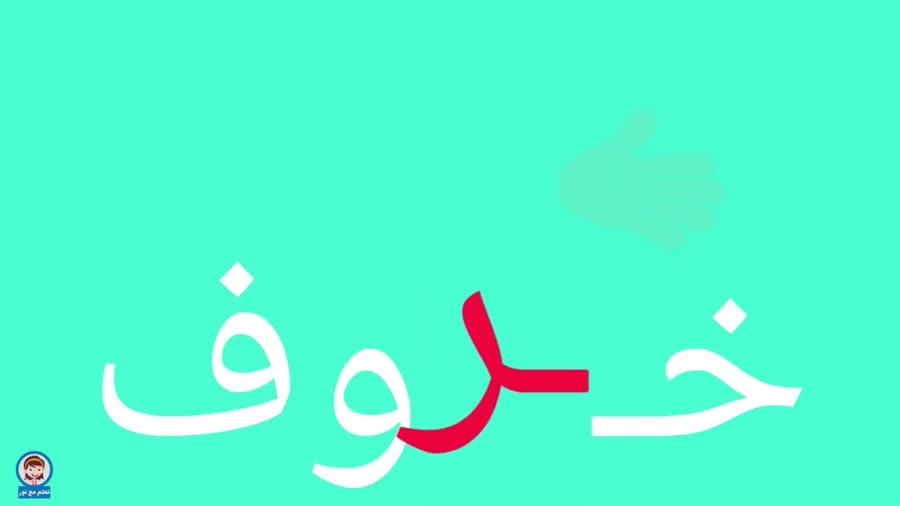
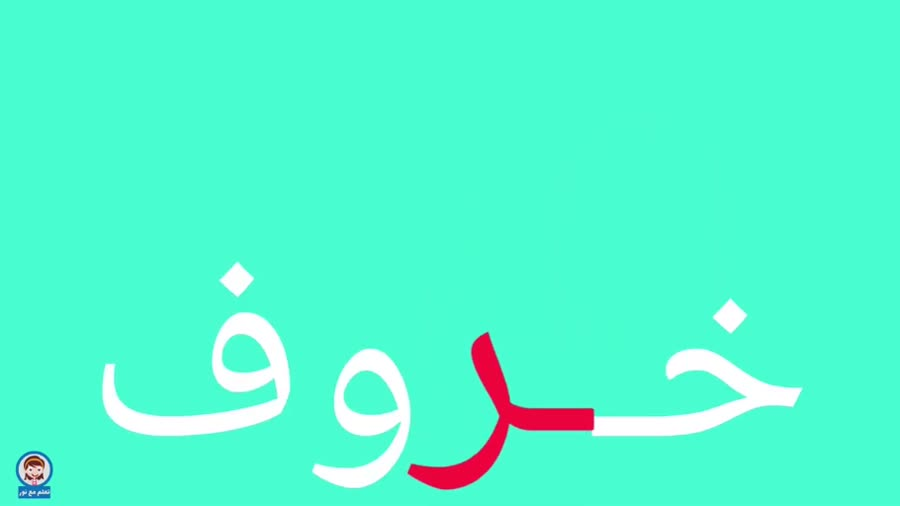
fix: use complete matched video example frames

Changed region(s): [[0.4356, 0.5632, 0.6844, 0.9783]]

diff --git a/preview-v4/src/modules/khaled/letter-forms/letter-video-audio-manifest.js b/preview-v4/src/modules/khaled/letter-forms/letter-video-audio-manifest.js
@@ -1,34 +1,35 @@
 // Voice-only lesson segments clipped from the user-provided Arabic-letter video.
 // Times are source-video seconds; each interval isolates one letter's narration.
+// imageTime points at the fully revealed example slide paired with that narration.
 export const LETTER_VIDEO_AUDIO_ROOT='./assets/audio/khaled/letter-forms/video/';
 export const LETTER_VIDEO_AUDIO_CLIPS=Object.freeze([
- Object.freeze({letter:'ا',id:'alif',start:6.16,end:17.46}),
- Object.freeze({letter:'ب',id:'ba',start:18.95,end:30.11}),
- Object.freeze({letter:'ت',id:'ta',start:32.20,end:42.45}),
- Object.freeze({letter:'ث',id:'tha',start:45.53,end:55.93}),
- Object.freeze({letter:'ج',id:'jim',start:57.82,end:67.60}),
- Object.freeze({letter:'ح',id:'ha',start:70.75,end:80.34}),
- Object.freeze({letter:'خ',id:'kha',start:83.54,end:93.02}),
- Object.freeze({letter:'د',id:'dal',start:96.32,end:105.63}),
- Object.freeze({letter:'ذ',id:'thal',start:108.74,end:118.08}),
- Object.freeze({letter:'ر',id:'ra',start:121.01,end:131.16}),
- Object.freeze({letter:'ز',id:'zay',start:134.40,end:144.06}),
- Object.freeze({letter:'س',id:'sin',start:147.78,end:158.07}),
- Object.freeze({letter:'ش',id:'shin',start:160.84,end:171.02}),
- Object.freeze({letter:'ص',id:'sad',start:173.66,end:183.70}),
- Object.freeze({letter:'ض',id:'dad',start:186.22,end:196.67}),
- Object.freeze({letter:'ط',id:'taa',start:198.91,end:208.62}),
- Object.freeze({letter:'ظ',id:'zaa',start:211.44,end:220.59}),
- Object.freeze({letter:'ع',id:'ain',start:224.24,end:234.01}),
- Object.freeze({letter:'غ',id:'ghain',start:237.37,end:247.75}),
- Object.freeze({letter:'ف',id:'fa',start:251.22,end:261.61}),
- Object.freeze({letter:'ق',id:'qaf',start:264.57,end:274.16}),
- Object.freeze({letter:'ك',id:'kaf',start:277.16,end:287.28}),
- Object.freeze({letter:'ل',id:'lam',start:289.99,end:300.09}),
- Object.freeze({letter:'م',id:'mim',start:302.50,end:312.46}),
- Object.freeze({letter:'ن',id:'nun',start:315.70,end:324.42}),
- Object.freeze({letter:'ه',id:'haa',start:328.36,end:338.36}),
- Object.freeze({letter:'و',id:'waw',start:341.56,end:351.49}),
- Object.freeze({letter:'ي',id:'ya',start:355.04,end:364.91})
+ Object.freeze({letter:'ا',id:'alif',start:6.16,end:17.46,imageTime:17.50}),
+ Object.freeze({letter:'ب',id:'ba',start:18.95,end:30.11,imageTime:31.50}),
+ Object.freeze({letter:'ت',id:'ta',start:32.20,end:42.45,imageTime:44.00}),
+ Object.freeze({letter:'ث',id:'tha',start:45.53,end:55.93,imageTime:57.50}),
+ Object.freeze({letter:'ج',id:'jim',start:57.82,end:67.60,imageTime:69.00}),
+ Object.freeze({letter:'ح',id:'ha',start:70.75,end:80.34,imageTime:82.00}),
+ Object.freeze({letter:'خ',id:'kha',start:83.54,end:93.02,imageTime:96.00}),
+ Object.freeze({letter:'د',id:'dal',start:96.32,end:105.63,imageTime:107.00}),
+ Object.freeze({letter:'ذ',id:'thal',start:108.74,end:118.08,imageTime:120.00}),
+ Object.freeze({letter:'ر',id:'ra',start:121.01,end:131.16,imageTime:132.00}),
+ Object.freeze({letter:'ز',id:'zay',start:134.40,end:144.06,imageTime:145.00}),
+ Object.freeze({letter:'س',id:'sin',start:147.78,end:158.07,imageTime:158.00}),
+ Object.freeze({letter:'ش',id:'shin',start:160.84,end:171.02,imageTime:172.00}),
+ Object.freeze({letter:'ص',id:'sad',start:173.66,end:183.70,imageTime:185.00}),
+ Object.freeze({letter:'ض',id:'dad',start:186.22,end:196.67,imageTime:198.00}),
+ Object.freeze({letter:'ط',id:'taa',start:198.91,end:208.62,imageTime:210.00}),
+ Object.freeze({letter:'ظ',id:'zaa',start:211.44,end:220.59,imageTime:222.00}),
+ Object.freeze({letter:'ع',id:'ain',start:224.24,end:234.01,imageTime:235.00}),
+ Object.freeze({letter:'غ',id:'ghain',start:237.37,end:247.75,imageTime:249.00}),
+ Object.freeze({letter:'ف',id:'fa',start:251.22,end:261.61,imageTime:263.00}),
+ Object.freeze({letter:'ق',id:'qaf',start:264.57,end:274.16,imageTime:276.00}),
+ Object.freeze({letter:'ك',id:'kaf',start:277.16,end:287.28,imageTime:289.00}),
+ Object.freeze({letter:'ل',id:'lam',start:289.99,end:300.09,imageTime:301.50}),
+ Object.freeze({letter:'م',id:'mim',start:302.50,end:312.46,imageTime:313.50}),
+ Object.freeze({letter:'ن',id:'nun',start:315.70,end:324.42,imageTime:325.00}),
+ Object.freeze({letter:'ه',id:'haa',start:328.36,end:338.36,imageTime:339.50}),
+ Object.freeze({letter:'و',id:'waw',start:341.56,end:351.49,imageTime:352.50}),
+ Object.freeze({letter:'ي',id:'ya',start:355.04,end:364.91,imageTime:366.00})
 ]);
 export const LETTER_VIDEO_AUDIO_BY_ID=Object.freeze(Object.fromEntries(LETTER_VIDEO_AUDIO_CLIPS.map(clip=>[clip.id,clip])));

diff --git a/preview-v4/service-worker.js b/preview-v4/service-worker.js
@@ -1,7 +1,7 @@
 importScripts('./src/modules/mashaal/curriculum/recitation-media-data.js');
 
 const CACHE_PREFIX='yasser-multiplication-v4-';
-const CACHE_VERSION=`${CACHE_PREFIX}shell-217`;
+const CACHE_VERSION=`${CACHE_PREFIX}shell-218`;
 const RECITATION_MEDIA=globalThis.__FAMILY_LEARNING_RECITATION_MEDIA__||[];
 const RECITATION_ASSETS=RECITATION_MEDIA.map(item=>item?.localPath).filter(path=>typeof path==='string'&&path.startsWith('./assets/recitation/'));
 const RECITATION_COMPANION_ASSETS=RECITATION_MEDIA.map(item=>item?.mushafPage?.imagePath).filter(path=>typeof path==='string'&&path.startsWith('./assets/recitation/'));
